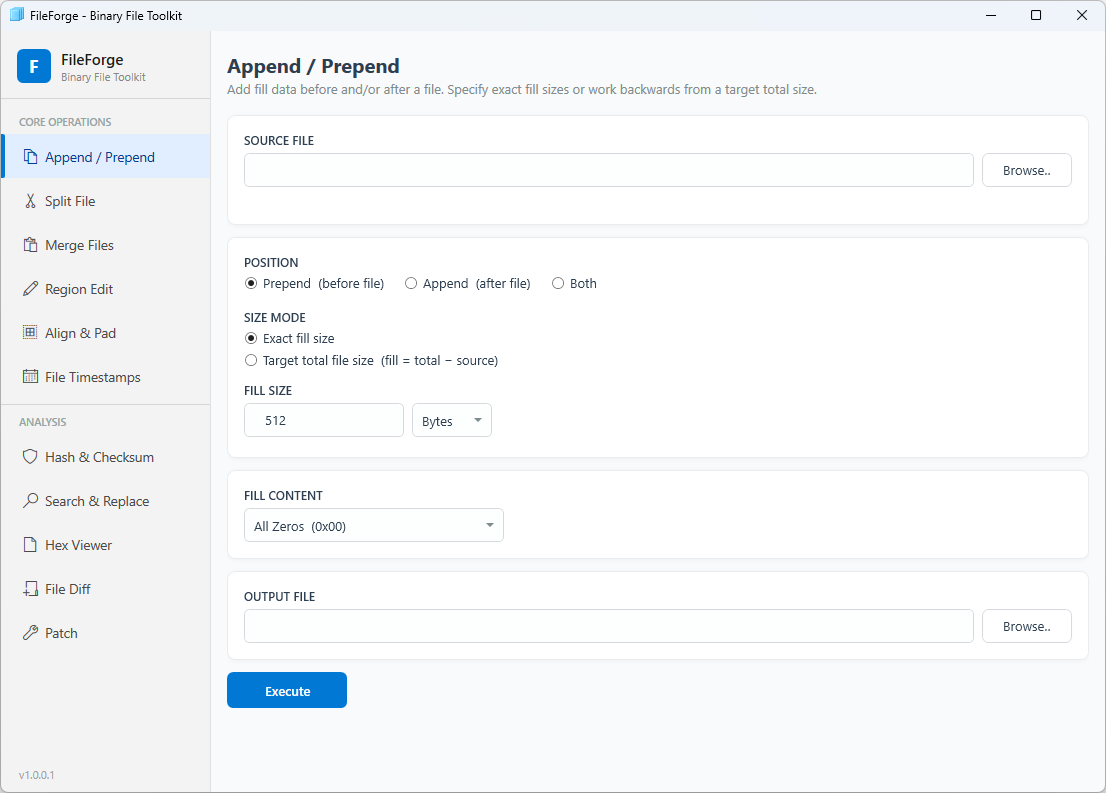
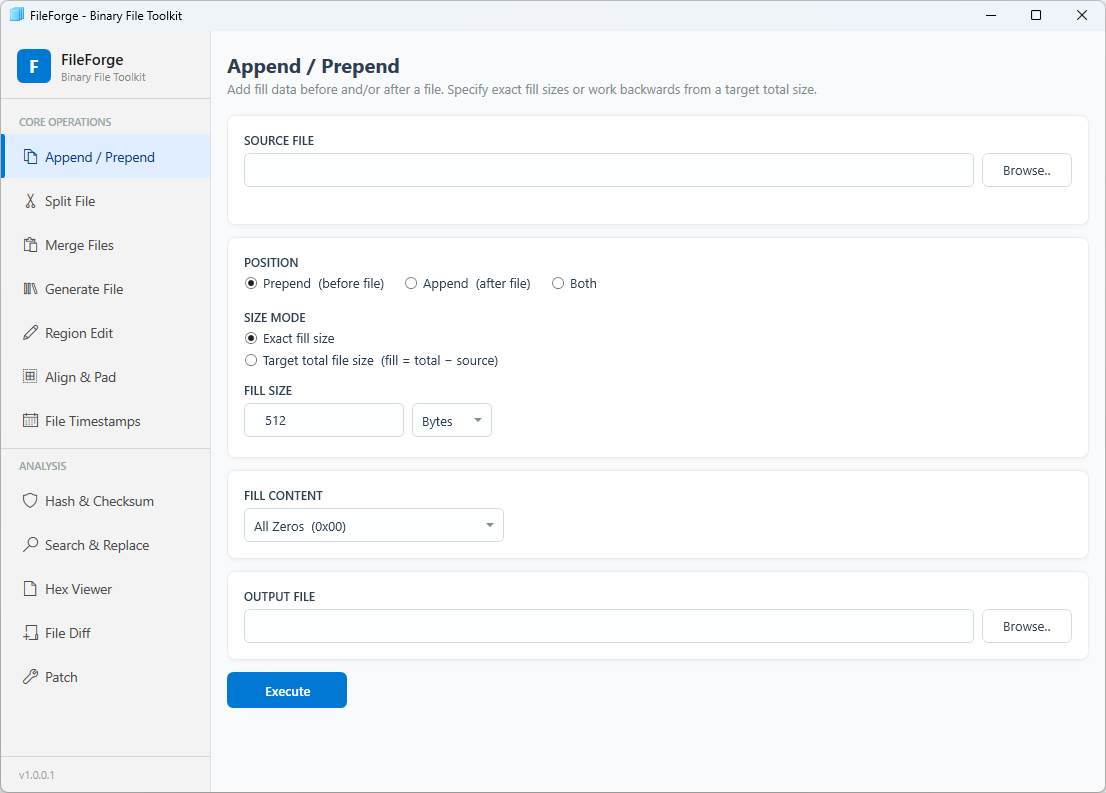
FileForge: Support binary file generation feature

diff --git a/FileForge/FileForge/Views/GenerateView.xaml b/FileForge/FileForge/Views/GenerateView.xaml
@@ -1,0 +1,82 @@
+<UserControl x:Class="FileForge.Views.GenerateView"
+             xmlns="http://schemas.microsoft.com/winfx/2006/xaml/presentation"
+             xmlns:x="http://schemas.microsoft.com/winfx/2006/xaml"
+             xmlns:local="clr-namespace:FileForge.Views">
+    <ScrollViewer VerticalScrollBarVisibility="Auto" HorizontalScrollBarVisibility="Disabled">
+        <StackPanel Margin="0,20">
+
+            <TextBlock Text="Generate File" Style="{StaticResource SectionHeaderStyle}"/>
+            <TextBlock Text="Create a new binary file of a specified size filled with chosen data."
+                       Style="{StaticResource SectionSubtitleStyle}"/>
+
+            <!-- File Size -->
+            <Border Style="{StaticResource CardStyle}">
+                <StackPanel>
+                    <TextBlock Text="FILE SIZE" Style="{StaticResource FieldLabelStyle}"/>
+                    <StackPanel Orientation="Horizontal" Margin="0,0,0,4">
+                        <TextBox x:Name="txtSize" Width="160" Text="512"
+                                 TextChanged="SizeInput_Changed"/>
+                        <ComboBox x:Name="cboUnit" Width="80" Margin="8,0,0,0" SelectedIndex="0"
+                                  SelectionChanged="SizeInput_Changed">
+                            <ComboBoxItem Content="Bytes"/>
+                            <ComboBoxItem Content="KB"/>
+                            <ComboBoxItem Content="MB"/>
+                            <ComboBoxItem Content="GB"/>
+                        </ComboBox>
+                        <TextBlock x:Name="txtSizeHint" Foreground="#0078D4" FontSize="12"
+                                   VerticalAlignment="Center" Margin="12,0,0,0"/>
+                    </StackPanel>
+                </StackPanel>
+            </Border>
+
+            <!-- Fill Content -->
+            <Border Style="{StaticResource CardStyle}">
+                <StackPanel>
+                    <TextBlock Text="FILL CONTENT" Style="{StaticResource FieldLabelStyle}"/>
+                    <ComboBox x:Name="cboFillMode" Width="260" HorizontalAlignment="Left"
+                              SelectionChanged="CboFillMode_SelectionChanged">
+                        <ComboBoxItem Content="All Zeros  (0x00)" IsSelected="True"/>
+                        <ComboBoxItem Content="Specific Byte"/>
+                        <ComboBoxItem Content="Hex Pattern  (repeating)"/>
+                        <ComboBoxItem Content="Random Data"/>
+                    </ComboBox>
+                    <StackPanel x:Name="panelSpecByte" Visibility="Collapsed" Margin="0,12,0,0">
+                        <TextBlock Text="BYTE VALUE  (hex, e.g. FF)" Style="{StaticResource FieldLabelStyle}"/>
+                        <TextBox x:Name="txtSpecByte" Width="120" HorizontalAlignment="Left" Text="FF"/>
+                    </StackPanel>
+                    <StackPanel x:Name="panelHexPat" Visibility="Collapsed" Margin="0,12,0,0">
+                        <TextBlock Text="HEX PATTERN  (e.g. DE AD BE EF)" Style="{StaticResource FieldLabelStyle}"/>
+                        <TextBox x:Name="txtHexPat" Width="360" HorizontalAlignment="Left" Text="DE AD BE EF"/>
+                    </StackPanel>
+                </StackPanel>
+            </Border>
+
+            <!-- Output File -->
+            <Border Style="{StaticResource CardStyle}">
+                <StackPanel>
+                    <TextBlock Text="OUTPUT FILE" Style="{StaticResource FieldLabelStyle}"/>
+                    <Grid>
+                        <Grid.ColumnDefinitions>
+                            <ColumnDefinition Width="*"/>
+                            <ColumnDefinition Width="Auto"/>
+                        </Grid.ColumnDefinitions>
+                        <TextBox x:Name="txtOutput" Grid.Column="0" Margin="0,0,8,0"/>
+                        <Button Grid.Column="1" Content="Browse…" Width="90"
+                                Style="{StaticResource SecondaryButtonStyle}"
+                                Click="BtnBrowseOutput_Click"/>
+                    </Grid>
+                </StackPanel>
+            </Border>
+
+            <!-- Actions -->
+            <StackPanel Orientation="Horizontal">
+                <Button x:Name="btnExecute" Content="Generate" Width="120" Height="36"
+                        Style="{StaticResource PrimaryButtonStyle}"
+                        Click="BtnExecute_Click"/>
+            </StackPanel>
+
+            <local:StatusBanner x:Name="statusBanner" Margin="0,10,0,20"/>
+
+        </StackPanel>
+    </ScrollViewer>
+</UserControl>

diff --git a/FileForge/FileForge/MainWindow.xaml b/FileForge/FileForge/MainWindow.xaml
@@ -69,6 +69,11 @@
                                      Click="NavButton_Click"
                                      Tag="&#xE77F;" Content="Merge Files"/>
 
+                        <RadioButton x:Name="navGenerate" GroupName="Nav"
+                                     Style="{StaticResource NavItemStyle}"
+                                     Click="NavButton_Click"
+                                     Tag="&#xE8F1;" Content="Generate File"/>
+
                         <RadioButton x:Name="navRegion" GroupName="Nav"
                                      Style="{StaticResource NavItemStyle}"
                                      Click="NavButton_Click"

diff --git a/FileForge/FileForge/Views/GenerateView.xaml.cs b/FileForge/FileForge/Views/GenerateView.xaml.cs
@@ -1,0 +1,120 @@
+using System;
+using System.IO;
+using System.Threading.Tasks;
+using System.Windows;
+using System.Windows.Controls;
+using FileForge.Core;
+
+namespace FileForge.Views
+{
+    public partial class GenerateView : UserControl
+    {
+        public GenerateView() { InitializeComponent(); }
+
+        // ── Output browse ─────────────────────────────────────────────────────
+
+        private void BtnBrowseOutput_Click(object sender, RoutedEventArgs e)
+        {
+            var dlg = new Microsoft.Win32.SaveFileDialog { Filter = "All Files (*.*)|*.*" };
+            if (dlg.ShowDialog() == true) txtOutput.Text = dlg.FileName;
+        }
+
+        // ── UI change handlers ────────────────────────────────────────────────
+
+        private void SizeInput_Changed(object sender, RoutedEventArgs e)
+        {
+            if (txtSizeHint == null) return;
+            string unit = (cboUnit?.SelectedItem as ComboBoxItem)?.Content?.ToString() ?? "Bytes";
+            if (TryParseSize(txtSize?.Text, unit, out long bytes))
+                txtSizeHint.Text = "= " + FileEngine.FormatSize(bytes);
+            else
+                txtSizeHint.Text = "";
+        }
+
+        private void CboFillMode_SelectionChanged(object sender, SelectionChangedEventArgs e)
+        {
+            if (panelSpecByte == null) return;
+            int idx = cboFillMode.SelectedIndex;
+            panelSpecByte.Visibility = idx == 1 ? Visibility.Visible : Visibility.Collapsed;
+            panelHexPat.Visibility   = idx == 2 ? Visibility.Visible : Visibility.Collapsed;
+        }
+
+        // ── Execute ───────────────────────────────────────────────────────────
+
+        private async void BtnExecute_Click(object sender, RoutedEventArgs e)
+        {
+            try { await ExecuteAsync(); }
+            catch (Exception ex) { ShowError(ex.Message); }
+        }
+
+        private async Task ExecuteAsync()
+        {
+            string output = txtOutput.Text.Trim();
+            if (string.IsNullOrWhiteSpace(output))
+                throw new Exception("Please specify an output file.");
+
+            string unit = (cboUnit?.SelectedItem as ComboBoxItem)?.Content?.ToString() ?? "Bytes";
+            if (!TryParseSize(txtSize.Text, unit, out long size))
+                throw new Exception("Invalid file size.");
+            if (size <= 0)
+                throw new Exception("File size must be greater than zero.");
+
+            FillMode mode;
+            byte specByte = 0;
+            byte[] hexPat = null;
+
+            switch (cboFillMode.SelectedIndex)
+            {
+                case 1:
+                    mode = FillMode.SpecificByte;
+                    string hexVal = txtSpecByte.Text.Trim().TrimStart('0', 'x', 'X');
+                    if (!byte.TryParse(hexVal, System.Globalization.NumberStyles.HexNumber, null, out specByte))
+                        throw new Exception("Invalid byte value — enter a hex value e.g. FF.");
+                    break;
+                case 2:
+                    mode   = FillMode.HexPattern;
+                    hexPat = FileEngine.ParseHexBytes(txtHexPat.Text);
+                    if (hexPat.Length == 0) throw new Exception("Hex pattern is empty.");
+                    break;
+                case 3:
+                    mode = FillMode.Random;
+                    break;
+                default:
+                    mode = FillMode.Zeros;
+                    break;
+            }
+
+            string  i_output  = output;
+            long    i_size    = size;
+            FillMode i_mode   = mode;
+            byte    i_spec    = specByte;
+            byte[]  i_pat     = hexPat;
+
+            btnExecute.IsEnabled = false;
+            ShowInfo("Generating…");
+            try
+            {
+                await Task.Run(() => FileEngine.GenerateFile(i_output, i_size, i_mode, i_spec, i_pat));
+                ShowSuccess("Done!  " + Path.GetFileName(i_output) + "  →  " + FileEngine.FormatSize(size));
+            }
+            finally
+            {
+                btnExecute.IsEnabled = true;
+            }
+        }
+
+        // ── Helpers ───────────────────────────────────────────────────────────
+
+        private static bool TryParseSize(string text, string unit, out long result)
+        {
+            result = 0;
+            if (string.IsNullOrWhiteSpace(text)) return false;
+            try { result = FileEngine.ParseSize(text, unit); return true; }
+            catch { return false; }
+        }
+
+        private void ShowError  (string msg) => statusBanner.ShowError  (msg);
+        private void ShowInfo   (string msg) => statusBanner.ShowInfo   (msg);
+        private void ShowSuccess(string msg) => statusBanner.ShowSuccess(msg);
+    }
+}

diff --git a/FileForge/FileForge/Core/FileEngine.cs b/FileForge/FileForge/Core/FileEngine.cs
@@ -85,6 +85,20 @@ namespace FileForge.Core
             }
         }
 
+        // ── Generate ───────────────────────────────────────────────────────────
+
+        /// <summary>
+        /// Create a new file of the specified size filled with the given fill content.
+        /// </summary>
+        public static void GenerateFile(string outputPath, long size,
+            FillMode fillMode, byte specificByte, byte[] hexPattern)
+        {
+            if (size <= 0) throw new ArgumentException("File size must be greater than zero.");
+
+            using (var output = new FileStream(outputPath, FileMode.Create, FileAccess.Write))
+                WriteFillData(output, fillMode, size, specificByte, hexPattern);
+        }
+
         // ── Split ──────────────────────────────────────────────────────────────
 
         public static List<string> SplitBySize(string inputPath, string outputDir,
@@ -467,9 +481,22 @@ namespace FileForge.Core
 
         public static long ParseSize(string value, string unit)
         {
-            if (string.IsNullOrWhiteSpace(value) ||
-                !long.TryParse(value.Trim(), out long n) || n <= 0)
+            if (string.IsNullOrWhiteSpace(value))
                 throw new ArgumentException("Invalid size value.");
+
+            string trimmed = value.Trim();
+            long n;
+            if (trimmed.StartsWith("0x", StringComparison.OrdinalIgnoreCase))
+            {
+                if (!long.TryParse(trimmed.Substring(2),
+                        System.Globalization.NumberStyles.HexNumber, null, out n) || n <= 0)
+                    throw new ArgumentException("Invalid size value.");
+            }
+            else
+            {
+                if (!long.TryParse(trimmed, out n) || n <= 0)
+                    throw new ArgumentException("Invalid size value.");
+            }
             try
             {
                 switch (unit)

diff --git a/FileForge/FileForge/Views/RegionView.xaml.cs b/FileForge/FileForge/Views/RegionView.xaml.cs
@@ -99,7 +99,7 @@ namespace FileForge.Views
                 // size == 0 → to end of file; ParseSize rejects 0, so special-case it here
                 string rawSizeStr = txtExtractSize.Text.Trim();
                 string sizeUnit   = (cboExtractUnit.SelectedItem as ComboBoxItem)?.Content?.ToString();
-                long   size       = long.TryParse(rawSizeStr, out long rawN) && rawN == 0
+                long   size       = FileEngine.TryParseOffset(rawSizeStr, out long rawN) && rawN == 0
                                         ? 0
                                         : FileEngine.ParseSize(rawSizeStr, sizeUnit);
 

diff --git a/FileForge/FileForge/MainWindow.xaml.cs b/FileForge/FileForge/MainWindow.xaml.cs
@@ -22,6 +22,7 @@ namespace FileForge
         private void InitViews()
         {
             _views[navAppend]    = new Lazy<UserControl>(() => new AppendView());
+            _views[navGenerate]  = new Lazy<UserControl>(() => new GenerateView());
             _views[navSplit]     = new Lazy<UserControl>(() => new SplitView());
             _views[navMerge]     = new Lazy<UserControl>(() => new MergeView());
             _views[navRegion]    = new Lazy<UserControl>(() => new RegionView());

diff --git a/FileForge/README.md b/FileForge/README.md
@@ -21,6 +21,7 @@ A desktop binary file toolkit built with WPF (.NET 4.8). Provides the most commo
 | **Append / Prepend** | Add fill data before and/or after a file. Supports exact fill sizes or target-total-size mode. Fill content: all zeros, a specific byte, a repeating hex pattern, or random data. In **Both** mode any two of (front fill, back fill, target total) can be specified and the third is calculated automatically. |
 | **Split File** | Split a file into equal-sized chunks or at explicit byte offsets. Customizable output filename pattern using `{name}`, `{n}`, `{ext}` placeholders. |
 | **Merge Files** | Combine multiple files into one. Drag-and-drop reordering, optional separator bytes between files. |
+| **Generate File** | Create a new binary file of an exact size filled with chosen data. Size input accepts decimal or hex (`0x...`) formats and supports unit suffixes (Bytes/KB/MB/GB). Fill content options match Append/Prepend: all zeros, a specific byte, a repeating hex pattern, or random data. |
 | **Region Edit** | Five operations on byte regions within a file: **Extract** a range to a new file, **Insert** bytes at an offset, **Delete** a range, **Overwrite** a range with fill data, **Truncate** the file to a given size. |
 | **Align & Pad** | Pad a file to the next multiple of a specified alignment boundary. |
 | **File Timestamps** | View and modify the **creation**, **last-modified**, and **last-access** timestamps of any file. Supports manual date/time entry, per-field "Now" buttons, and one-click reset to the values last read from disk. |
